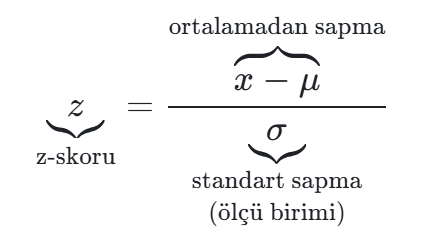
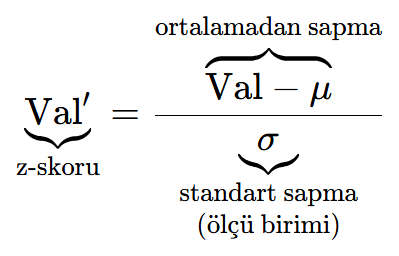
Ölçekleme formülleri Val gösterimine çevrildi: Min-Max hedef aralıklı genel biçim ve [1, 2] örneği, z-skoru, dayanıklı ve onluk ölçekleme; formül görselleri yeniden üretildi

diff --git a/images/formuller/README.md b/images/formuller/README.md
@@ -44,26 +44,26 @@ Bu klasördeki PNG dosyaları, `Ders_Notu.md` içindeki açıklamalı formüller
 
 ## 06.png
 
-*Zet eşittir, iks eksi mü, bölü sigma.*
+*Val üssü eşittir, val eksi mü, bölü sigma.*
 
 ```math
-\underbrace{z}_{\text{z-skoru}} = \frac{\overbrace{x - \mu}^{\text{ortalamadan sapma}}}{\underbrace{\sigma}_{\substack{\text{standart sapma}\\[2pt]\text{(ölçü birimi)}}}}
+\underbrace{\text{Val}'}_{\text{z-skoru}} = \frac{\overbrace{\text{Val} - \mu}^{\text{ortalamadan sapma}}}{\underbrace{\sigma}_{\substack{\text{standart sapma}\\[2pt]\text{(ölçü birimi)}}}}
 ```
 
 ## 07.png
 
-*İks üssü eşittir, iks eksi iks'in medyanı, bölü IQR. IQR eşittir ku üç eksi ku bir.*
+*Val üssü eşittir, val eksi val'in medyanı, bölü IQR. IQR eşittir ku üç eksi ku bir.*
 
 ```math
-\underbrace{x'}_{\text{yeni değer}} = \frac{\overbrace{x - \text{medyan}(x)}^{\text{ortancadan uzaklık}}}{\underbrace{IQR}_{\substack{\text{ortadaki \%50'nin}\\[2pt]\text{genişliği}}}}, \qquad IQR = \underbrace{Q_3}_{\substack{\text{\%75}\\[2pt]\text{noktası}}} - \underbrace{Q_1}_{\substack{\text{\%25}\\[2pt]\text{noktası}}}
+\underbrace{\text{Val}'}_{\text{yeni değer}} = \frac{\overbrace{\text{Val} - \text{medyan}(\text{Val})}^{\text{ortancadan uzaklık}}}{\underbrace{IQR}_{\substack{\text{ortadaki \%50'nin}\\[2pt]\text{genişliği}}}}, \qquad IQR = \underbrace{Q_3}_{\substack{\text{\%75}\\[2pt]\text{noktası}}} - \underbrace{Q_1}_{\substack{\text{\%25}\\[2pt]\text{noktası}}}
 ```
 
 ## 08.png
 
-*İks üssü eşittir, iks bölü on üzeri j. Burada j, ölçeklenmiş değerlerin mutlak değerce en büyüğünü 1'in altına indiren en küçük tam sayıdır.*
+*Val üssü eşittir, val bölü on üzeri j. Burada j, ölçeklenmiş değerlerin mutlak değerce en büyüğünü 1'in altına indiren en küçük tam sayıdır.*
 
 ```math
-\underbrace{x'}_{\text{yeni değer}} = \frac{x}{\underbrace{10^{j}}_{\substack{\text{virgülü j basamak}\\[2pt]\text{sola kaydır}}}}, \qquad \overbrace{j}^{\substack{\text{en küçük}\\[2pt]\text{tam sayı}}}:\ \underbrace{\max_i \lvert x'_i \rvert < 1}_{\substack{\text{ölçeklenmiş değerlerin en büyük}\\[2pt]\text{mutlak değeri 1'den küçük olsun}}}
+\underbrace{\text{Val}'}_{\text{yeni değer}} = \frac{\text{Val}}{\underbrace{10^{j}}_{\substack{\text{virgülü j basamak}\\[2pt]\text{sola kaydır}}}}, \qquad \overbrace{j}^{\substack{\text{en küçük}\\[2pt]\text{tam sayı}}}:\ \underbrace{\max_i \lvert \text{Val}'_i \rvert < 1}_{\substack{\text{ölçeklenmiş değerlerin en büyük}\\[2pt]\text{mutlak değeri 1'den küçük olsun}}}
 ```
 
 ## 09.png
